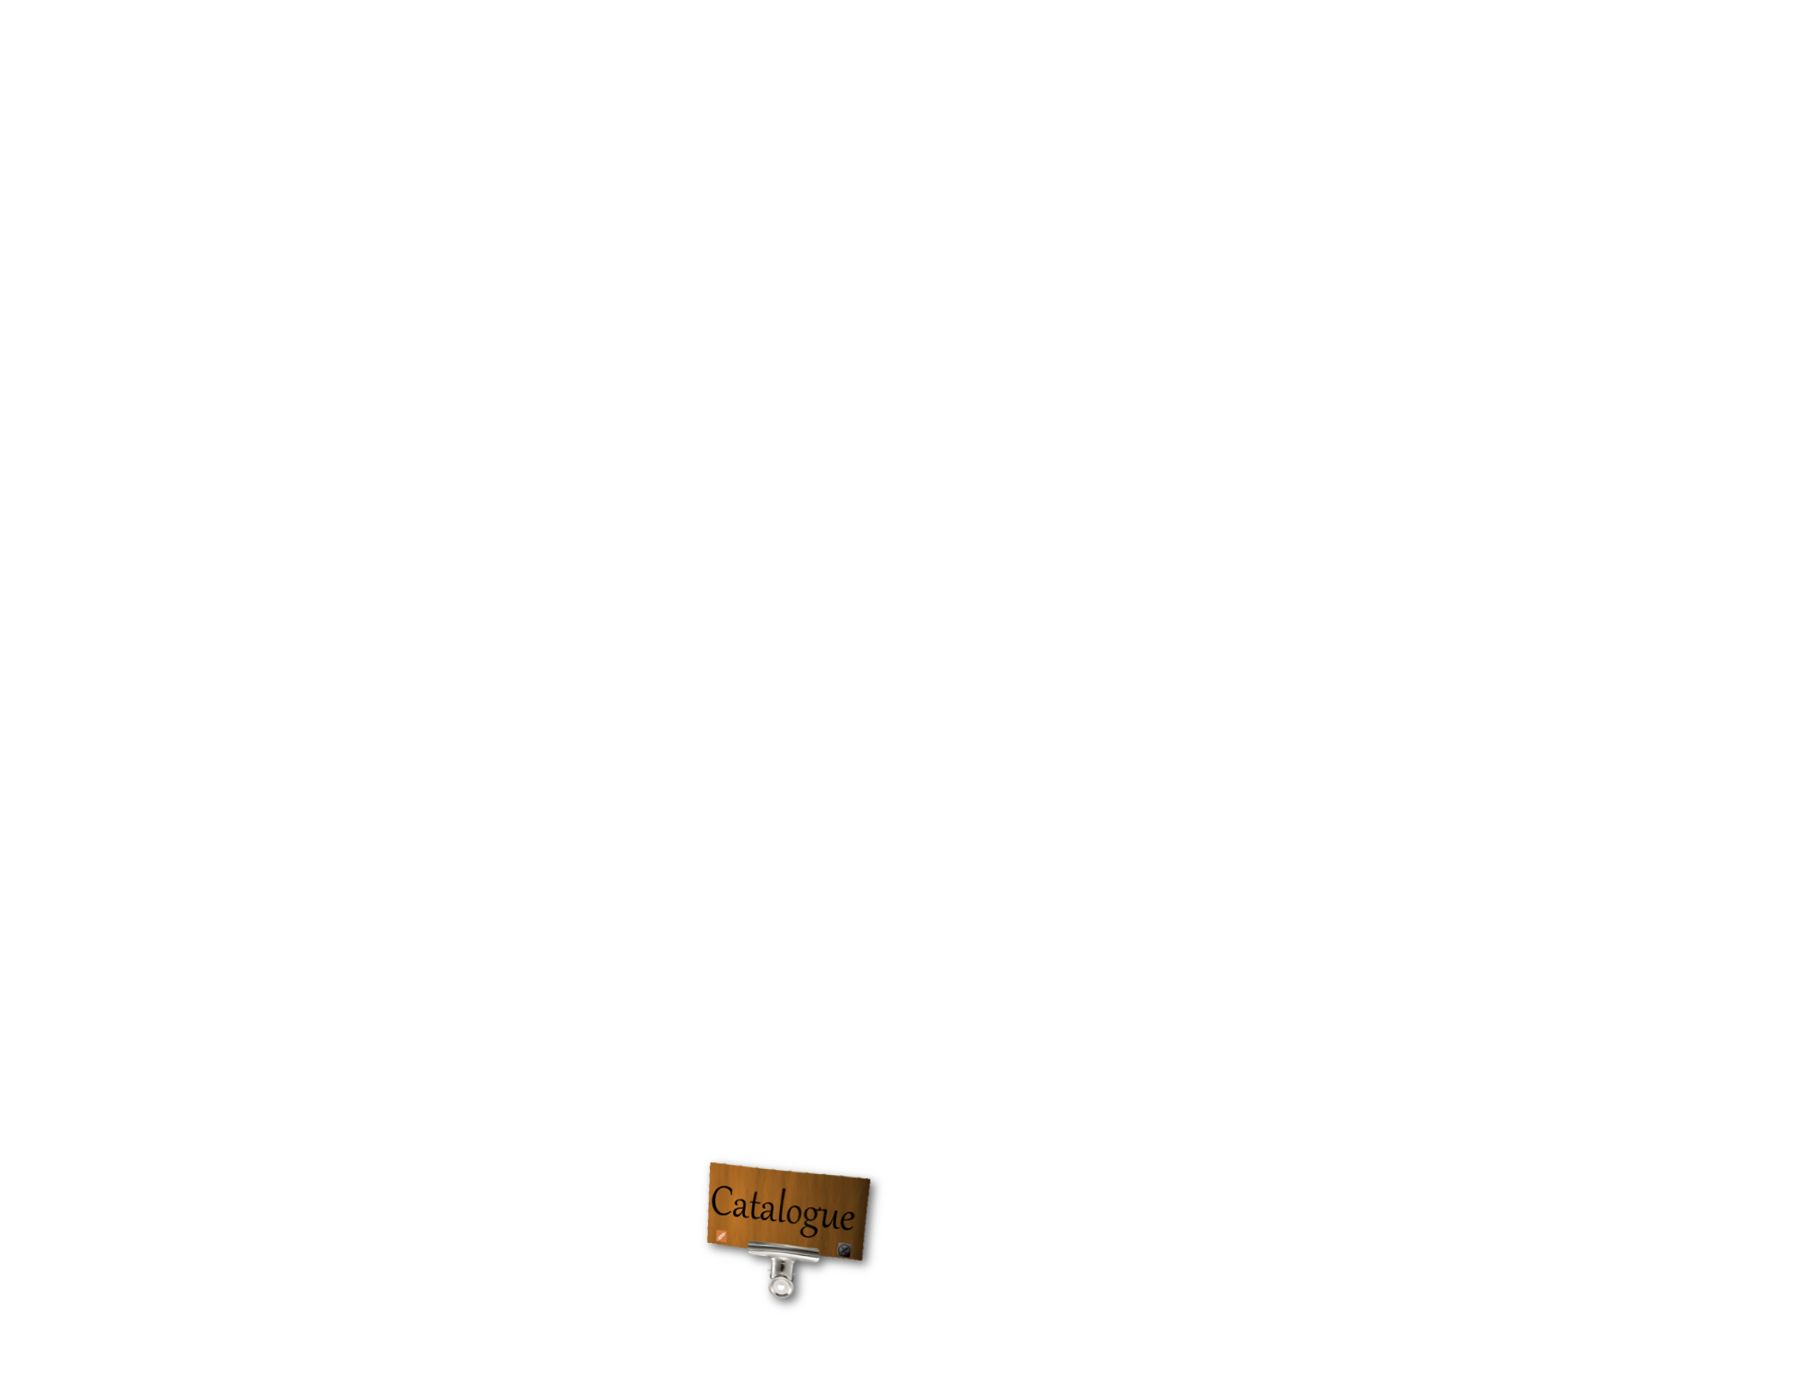
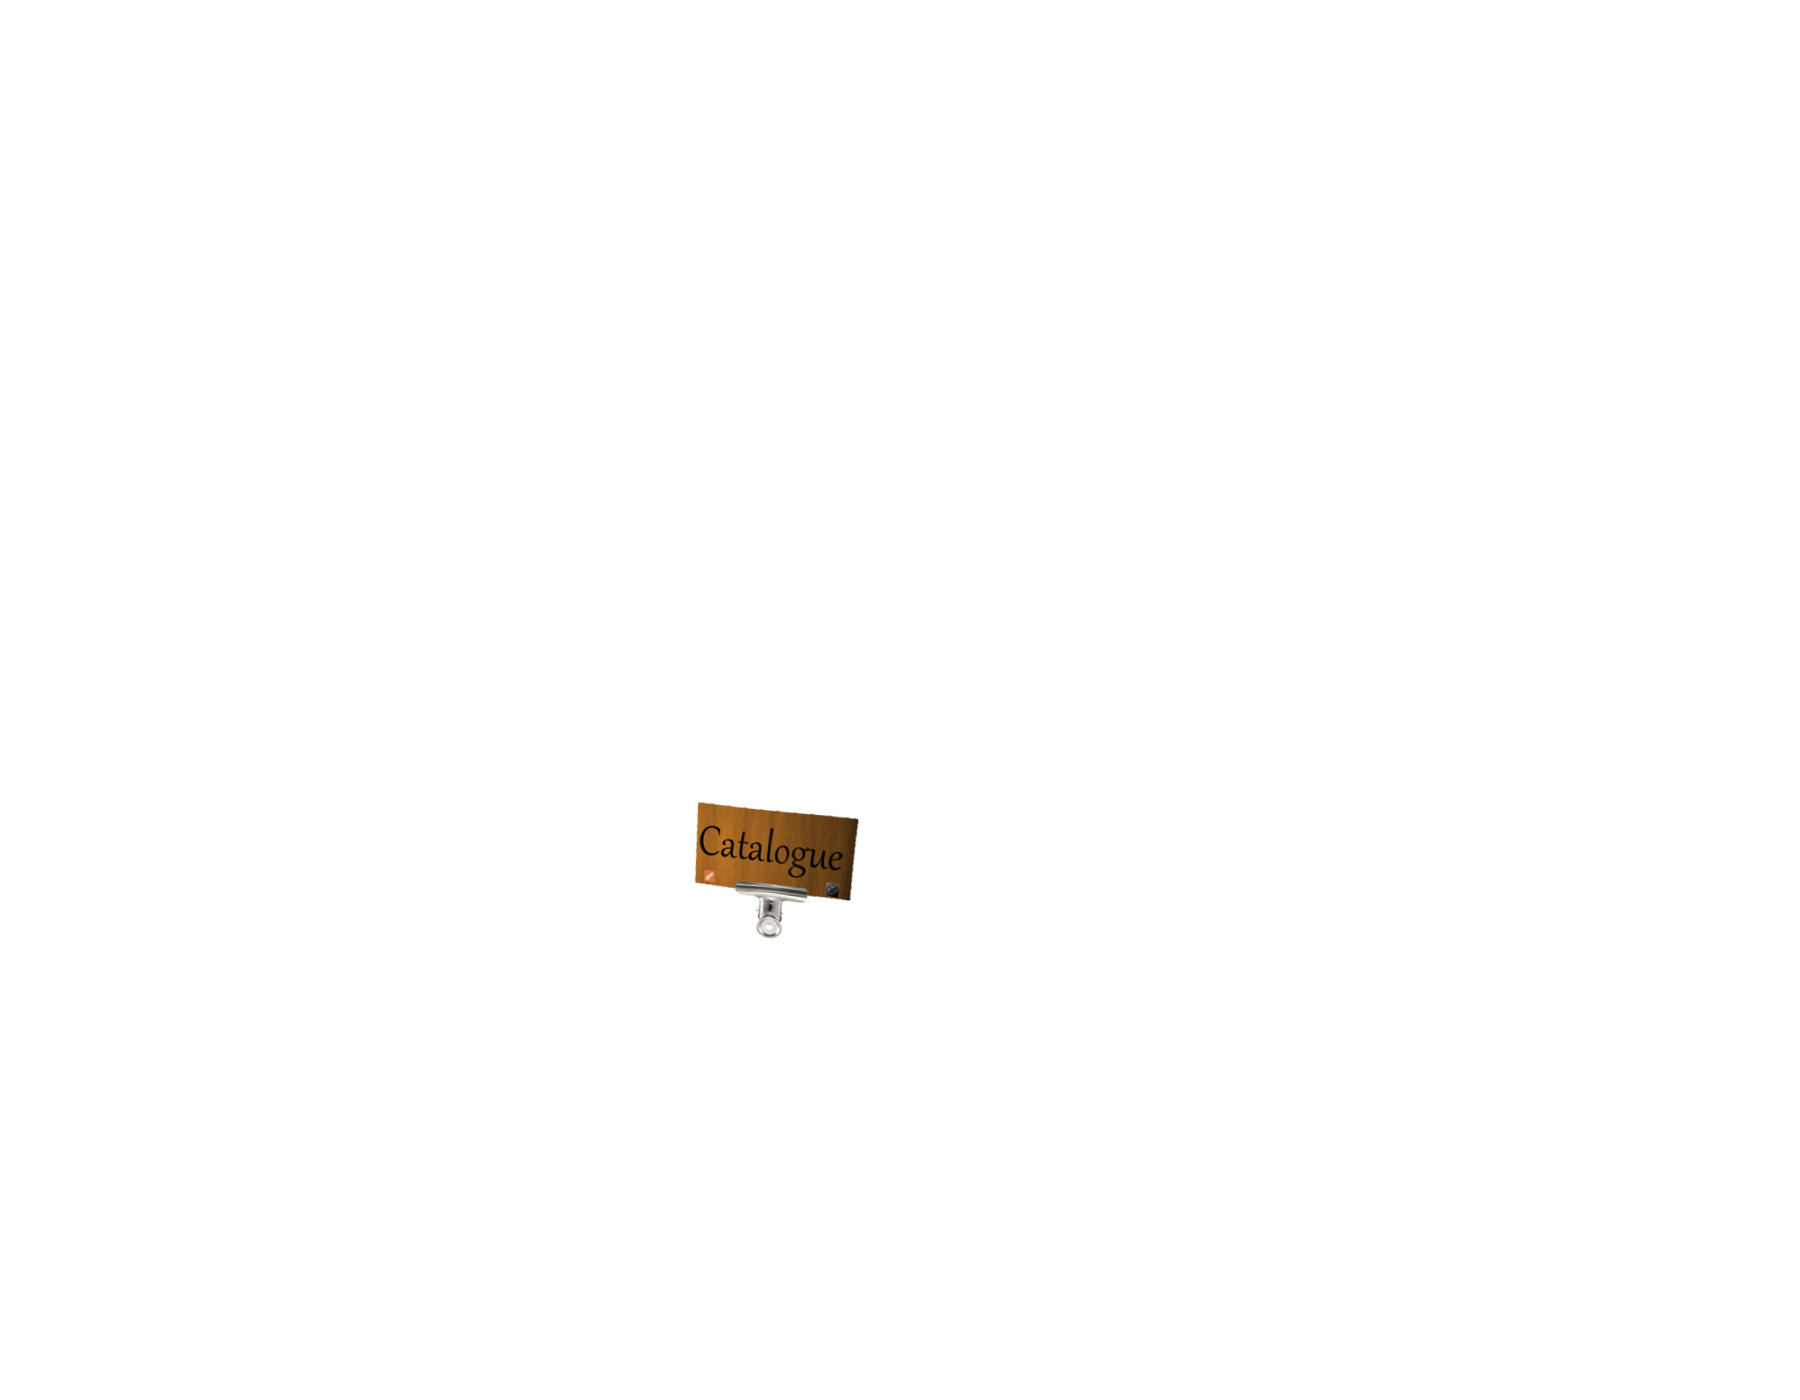
Thoms updates from friday

Changed region(s): [[0.3733, 0.8293, 0.4978, 0.9214], [0.3733, 0.5529, 0.4978, 0.6757]]

diff --git a/public/css/styleThomas.css b/public/css/styleThomas.css
@@ -83,7 +83,7 @@ a:hover{
 
 .sidebar {
 	position: fixed;
-	top: 25%; left: 94%;
+	top: 45%; left: 98%;
 	width: 310px; height: 900px;
 	margin: -150px 0 20px -200px;
 	padding: 1.4em;
@@ -91,7 +91,7 @@ a:hover{
 	text-shadow: 1px 1px 3px rgba(150, 150, 150, 1);
 	padding-top:80px;
 	border-radius: 4px;
-  z-index: 10;
+  z-index: 11;
 }
 
 .sidebar:fixed {
@@ -104,7 +104,7 @@ a:hover{
 }
 
 .logo {
-	padding: 50px;
+	
 	text-transform: uppercase;
 	font-size: 1em;
 	left: 1340px;
@@ -136,7 +136,7 @@ a:hover{
 
 .incline {
 	writing-mode: vertical-rl;
-  	text-orientation: sideways;
+  text-orientation: sideways;
 	transform: rotate(-180deg);
 	font-size: 5.5em;
 	text-align: left;

diff --git a/public/js/thomas/javascript.js b/public/js/thomas/javascript.js
@@ -76,7 +76,7 @@ $(function(){
             opacity: 0
         },0, function() {
             // Callback
-            $("#light4").animate({
+            $("#light2").animate({
                     opacity: 1
                 }, 0)
             });
@@ -86,7 +86,7 @@ $(function(){
             opacity: 1
         },0, function() {
             // Callback
-            $("#light4").animate({
+            $("#light2").animate({
                     opacity: 0
                 }, 0)
             });
